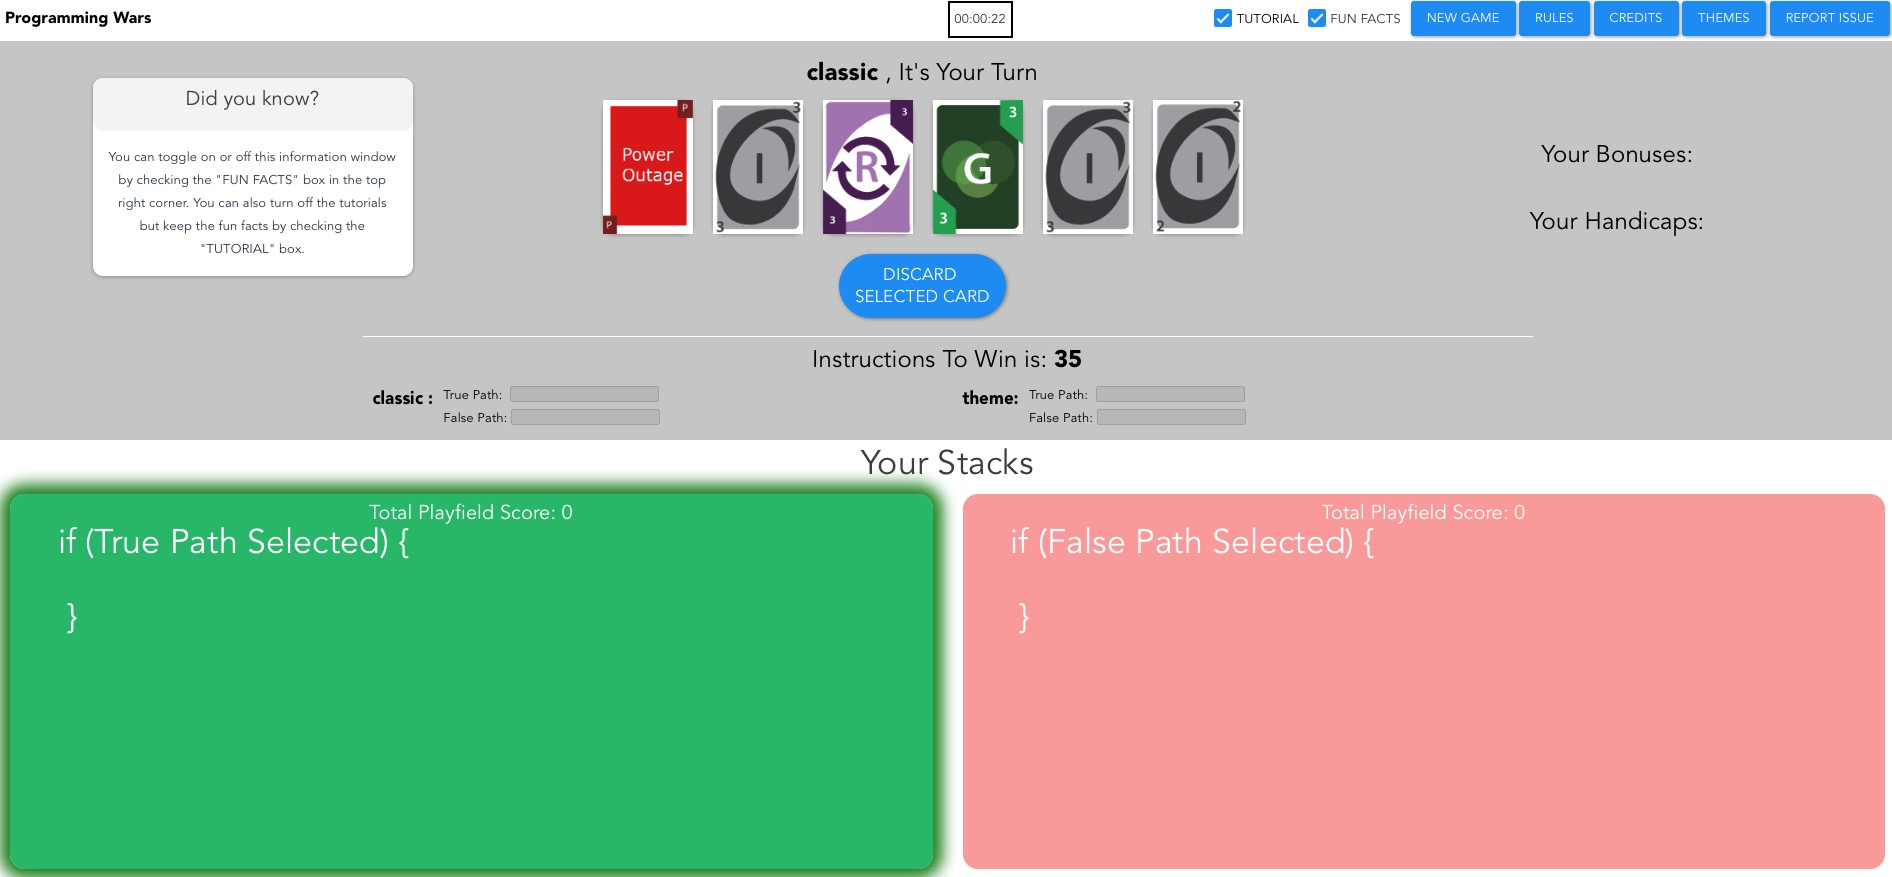
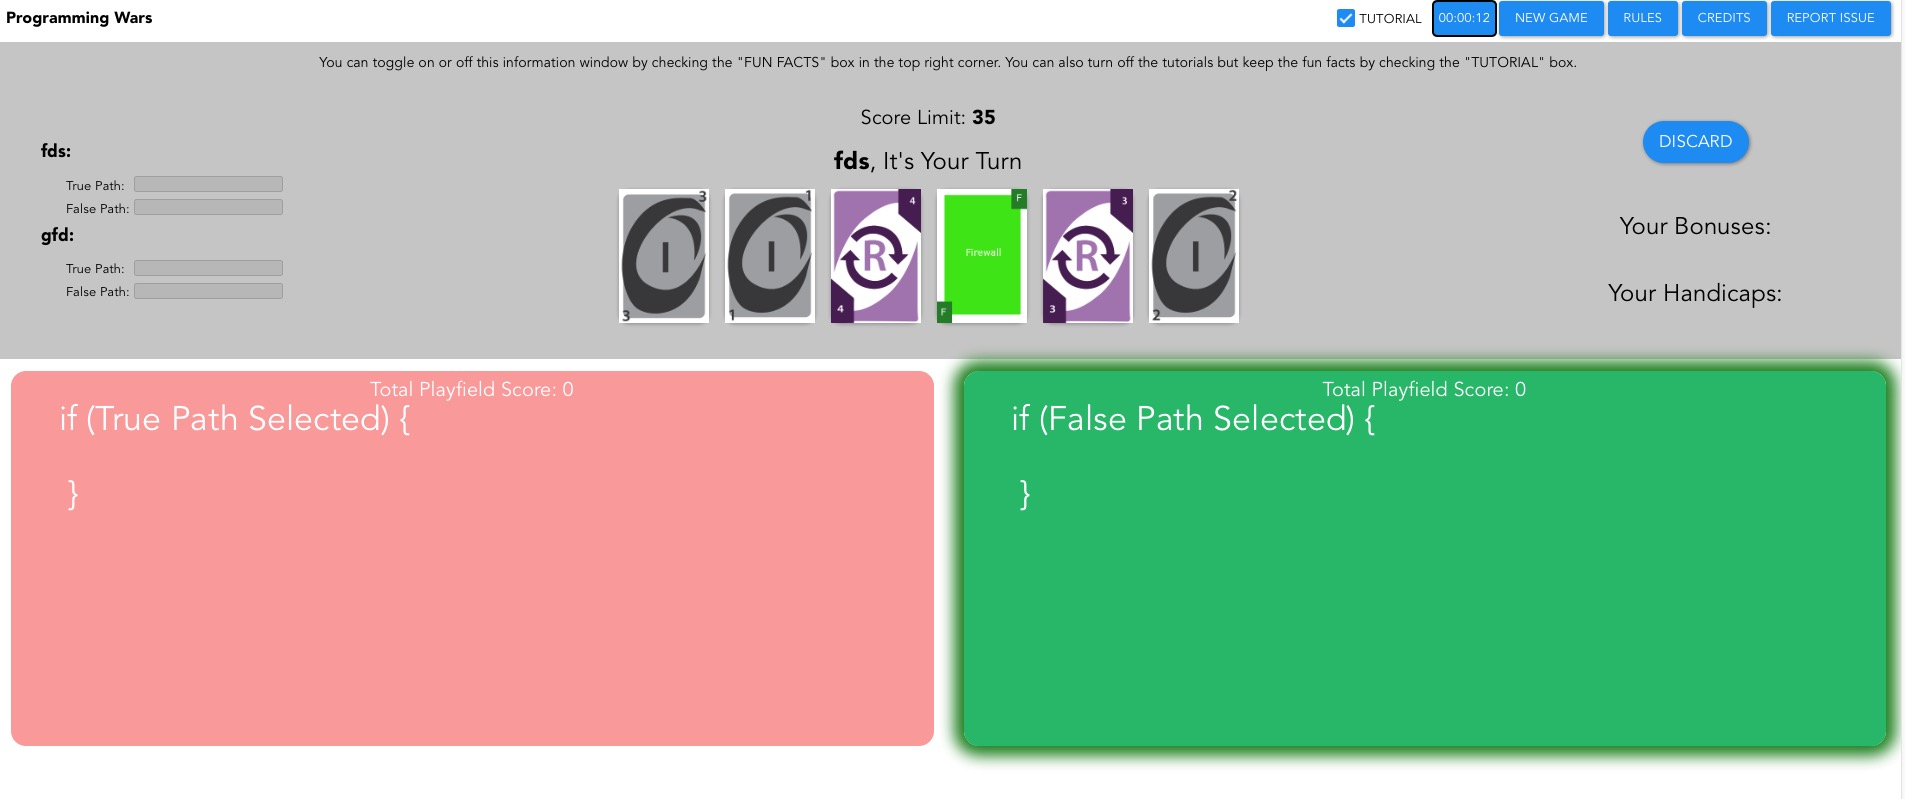
Fixing themes

diff --git a/src/components/MainGame/MainComponent.vue b/src/components/MainGame/MainComponent.vue
@@ -1,7 +1,6 @@
 <template>
   <div id="maincontainer">
     <rules-modal id="rulesModal" class="modal fade rules" tabindex="-1" role="dialog" aria-labelledby="" aria-hidden="true" style="background-color: yellowgreen"></rules-modal>
-    <themes-modal id="themesModal" class="modal fade themes" tabindex="-1" role="dialog" aria-labelledby="" aria-hidden="true"></themes-modal>
     <credits-modal id="creditsModal" class="modal fade credits" tabindex="-1" role="dialog" aria-labelledby="" aria-hidden="true" style="background-color: mediumpurple"></credits-modal>
     <hack-modal id="hackModal" class="modal fade hack" tabindex="-1" role="dialog" aria-labelledby=""
                 aria-hidden="true" :players="players" data-backdrop="static" data-keyboard="false"
@@ -36,14 +35,13 @@
     <div id="header" :style="mainBackgroundColour()">
       <p :style="mainTextColour()">Programming Wars</p>
       <div style="margin-left: auto; padding: 0 10px 0 0">
-      <label class="checkbox-inline"><input type="checkbox" value="true" v-model="tipsToggle" checked>TUTORIAL</label>
+      <label class="checkbox-inline" :style="mainTextColour()"><input type="checkbox" value="true" v-model="tipsToggle" checked>TUTORIAL</label>
         </div>
         <timer class="timer" ></timer>
         <div id="header-buttons">
         <button class="btn btn-primary" @click="() => {this.$router.push('/')}">New Game</button>
         <button class="btn btn-primary" data-toggle="modal" data-target=".rules">Rules</button>
         <button class="btn btn-primary" data-toggle="modal" data-target=".credits">Credits</button>
-          <button class="btn btn-primary" data-toggle="modal" data-target=".themes">Themes</button>
         <a class="btn btn-primary" href="https://gitreports.com/issue/johnanvik/program-wars" target="_blank">Report Issue</a>
       </div>
     </div>
@@ -64,7 +62,7 @@
         </div>
       </div>
     </div>
-    <div style="height: 200px; width: 100%;" :style="mainBackgroundColour()"></div>
+    <div style="height: 300px; width: 100%;" :style="mainBackgroundColour()"></div>
   </div>
 </template>
 
@@ -91,8 +89,6 @@ import AntiVirus from '../Modals/CardModals/AntiVirusModal'
 import Generator from '../Modals/CardModals/Generator'
 import Firewall from '../Modals/CardModals/Firewall'
 import Timer from '../SharedComponents/Timer'
-
-import Themes from '../Modals/ThemesModal'
 
 import {mapGetters, mapMutations, mapActions, mapState} from 'vuex'
 
@@ -142,8 +138,7 @@ export default {
       'firewall-modal': Firewall,
       'generator-modal': Generator,
       'anti-virus-modal': AntiVirus,
-      'timer': Timer,
-      'themes-modal': Themes
+      'timer': Timer
 
     },
     methods: {

diff --git a/src/components/SharedComponents/SettingsComponent.vue b/src/components/SharedComponents/SettingsComponent.vue
@@ -1,5 +1,6 @@
 <template>
   <div id="settingsPage">
+    <themes-modal id="themesModal" class="modal fade themes" tabindex="-1" role="dialog" aria-labelledby="" aria-hidden="true"></themes-modal>
     <rules-modal id="rulesModal" class="modal fade rules" tabindex="-1" role="dialog" aria-labelledby="" aria-hidden="true" style="background-color: yellowgreen"></rules-modal>
     <credits-modal id="creditsModal" class="modal fade credits" tabindex="-1" role="dialog" aria-labelledby="" aria-hidden="true" style="background-color: mediumpurple"></credits-modal>
     <div class="header" :style="mainBackgroundColour()">
@@ -7,6 +8,7 @@
         <h4 :style="mainTextColour()"><b>Programming Wars</b></h4>
       </div>
       <div class="headerBtn">
+        <button class="btn btn-primary" data-toggle="modal" data-target=".themes">Themes</button>
         <button class="btn btn-primary headerBtn" data-toggle="modal" data-target=".rules">Rules</button>
         <button class="btn btn-primary headerBtn" data-toggle="modal" data-target=".credits">Credits</button>
         <a class="btn btn-primary" href="https://gitreports.com/issue/johnanvik/program-wars" target="_blank">Report Issue</a>
@@ -70,6 +72,8 @@
   import RulesModal from '../Modals/RulesModal.vue'
   import CreditsModal from '../Modals/CreditsModal.vue'
   import TutorialModal from '../Modals/TutorialStartModal'
+
+  import Themes from '../Modals/ThemesModal'
 
   import {mapGetters, mapMutations, mapState} from 'vuex'
 
@@ -220,7 +224,8 @@
       'opponent-stacks': OpponentStacks,
       'rules-modal': RulesModal,
       'credits-modal': CreditsModal,
-      'tutorial-modal': TutorialModal
+      'tutorial-modal': TutorialModal,
+      'themes-modal': Themes
     },
     beforeMount () {
       this.$store.commit('resetState')

diff --git a/src/components/MainGame/PlayerInfoPanel.vue b/src/components/MainGame/PlayerInfoPanel.vue
@@ -1,7 +1,7 @@
 <template>
     <div id="player-info-panel" :style="pIPBackgroundColour()">
       <div id="tipContainer" v-if="getTips().tutorial">
-        <div id="tipBox" class="container" :cardClicked="tipsCardSelected" style="font-size: 14px;">
+        <div id="tipBox" class="container" :cardClicked="tipsCardSelected" style="font-size: 14px;" :style="pIPTextColour()">
           {{ tipsInfoText }}
         </div>
       </div>
@@ -10,9 +10,9 @@
       <div id="flexcontainer">
         <div class="container" style="width: 300px; margin-right: 20px; margin-left: 10px; align-items: center; -webkit-align-items: center">
         <div v-for="player in players" style="text-align: left; display: inline">
-          <div style="float: left; margin-right: 10px;"><h4 :style="pIPTextColour()"><b><a @click="openModal" style="cursor: pointer; color: rgba(10,1,1,0.79); font-size: 17px; -webkit-align-items: center ">{{ player.name }}:</a></b></h4></div>
-            <div class="row" style="width: 300px; height: auto; -webkit-align-items: center; margin-right: 0px; margin-left: 25px">
-              <div class="row" :style="pIPTextColour()"></div>
+          <div style="float: left; margin-right: 10px;"><h4><b><a @click="openModal" style="cursor: pointer; color: rgba(10,1,1,0.79); font-size: 17px; -webkit-align-items: center " :style="pIPTextColour()">{{ player.name }}:</a></b></h4></div>
+            <div class="row" style="width: 300px; height: auto; -webkit-align-items: center; margin-right: 0px; margin-left: 25px" :style="pIPTextColour()">
+              <div class="row"></div>
               True Path:&nbsp;&thinsp;
               <meter :max="getScoreLimit()" min=0
                      :value="getScore(player.id).trueScore"

diff --git a/src/components/Modals/ThemesModal.vue b/src/components/Modals/ThemesModal.vue
@@ -17,7 +17,7 @@
               </div>
           </div>
             <div class="row">
-              <img :src="getSrc()" alt="ThemePick" style="width: 50%; height: 45%">
+              <img :src="getSrc()" alt="ThemePick" style="width: 50%; height: 45%; margin-top: 13px;">
             </div>
         </div>
         <div class="modal-footer">
@@ -107,6 +107,13 @@
 
   #gamePlay, #cardPlaying {
     font-size: medium;
+  }
+
+  select {
+    background-color: whitesmoke;
+    -webkit-box-shadow: 1px 1px 1px 1px darkgray;
+    -moz-box-shadow: 1px 1px 1px 1px darkgray;
+    box-shadow: 1px 1px 1px 1px darkgray;
   }
 
 </style>
